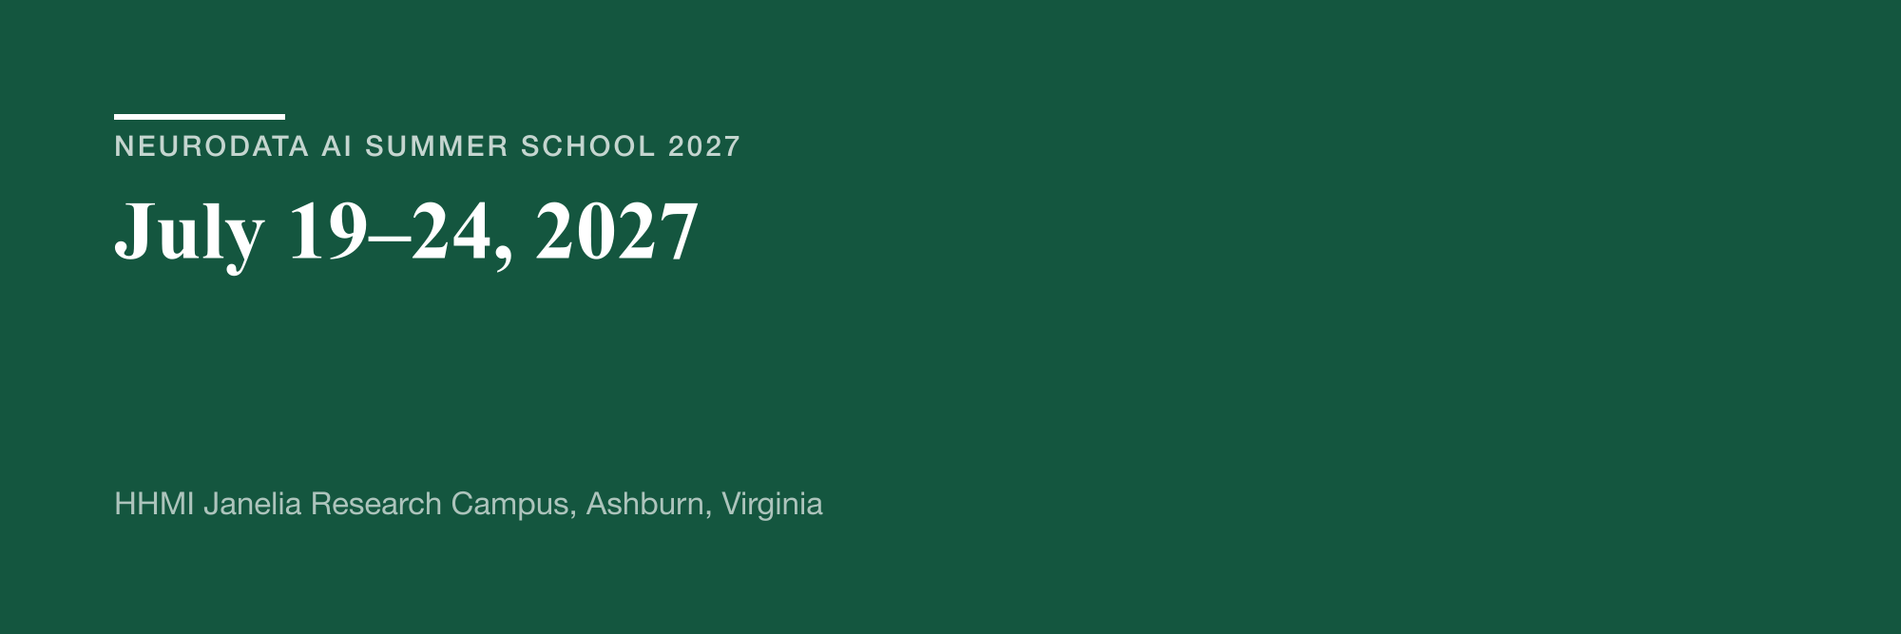
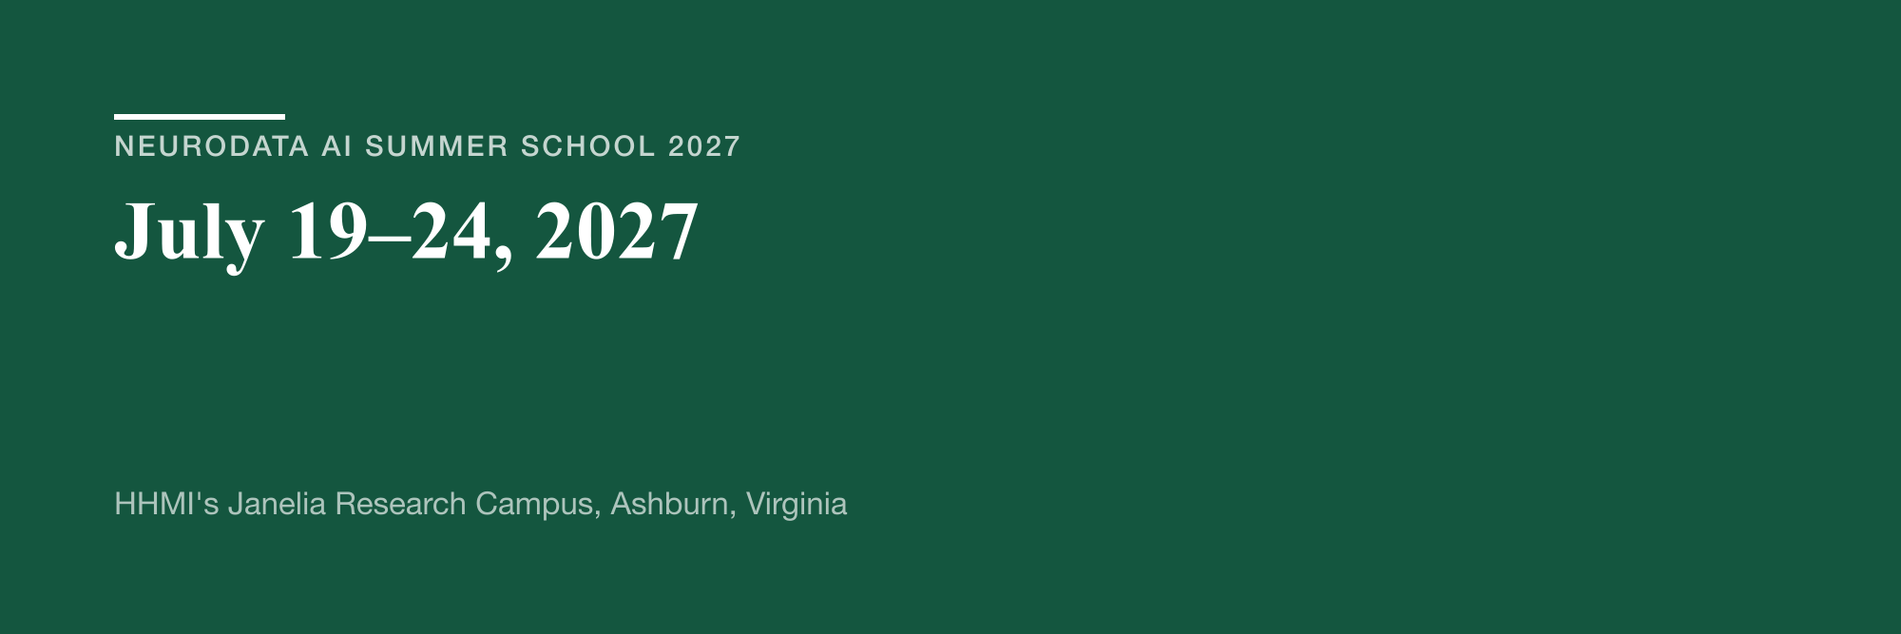
Use HHMI-Janelia and HHMI's Janelia Research Campus throughout
Ben's naming for the host: HHMI-Janelia in running text, HHMI's Janelia
Research Campus for the full name. Applied to all site copy, people
bios, photo captions, the sponsor entry, and the generated banner and
social-card images.

Claude-Session: https://claude.ai/code/session_01BL4RrS5NY3hpeFPe4TQEHF

Changed region(s): [[0.093, 0.7796, 0.465, 0.8096]]

diff --git a/src/consts.ts b/src/consts.ts
@@ -6,7 +6,7 @@ export const SITE = {
   defaultTitle: "NeuroData AI Summer School",
   titleTemplate: (t: string) => `${t} · NeuroData AI Summer School`,
   description:
-    "A one-week residential summer school at HHMI Janelia on reanalysis of open neurophysiology data and AI methods for neural data. Formerly NeuroDataReHack.",
+    "A one-week residential summer school at HHMI-Janelia on reanalysis of open neurophysiology data and AI methods for neural data. Formerly NeuroDataReHack.",
   ogImage: "/social-card.png",
   email: "ben.dichter@catalystneuro.com",
   github: "https://github.com/catalystneuro/neurodata-ai-website",

diff --git a/src/content/pages/program.md b/src/content/pages/program.md
@@ -20,7 +20,7 @@ The school is organized around four aims.
 
 ## Format
 
-The school runs once a year at HHMI Janelia Research Campus. Participants arrive on a Sunday evening for a welcome reception, and the program runs through the following Saturday, with sessions scheduled from nine in the morning to the early evening and the evenings free for continued project work and campus life. About 35 participants attend each year, with roughly eight faculty on site throughout, which keeps the ratio close enough for sustained one-on-one mentorship. Six to eight teams of four to six people is the usual shape of the project work.
+The school runs once a year at HHMI's Janelia Research Campus. Participants arrive on a Sunday evening for a welcome reception, and the program runs through the following Saturday, with sessions scheduled from nine in the morning to the early evening and the evenings free for continued project work and campus life. About 35 participants attend each year, with roughly eight faculty on site throughout, which keeps the ratio close enough for sustained one-on-one mentorship. Six to eight teams of four to six people is the usual shape of the project work.
 
 Days one and two establish the foundations: the NWB standard, the DANDI Archive, streaming access, the flagship datasets, and the classic analysis tools, most of them taught by the people who wrote them. Day three introduces the AI methods and hands the week over to project work. Days four through six are devoted to projects, with daily check-ins, a laboratory tour, a session on the responsible conduct of research with open data, and the final presentations. The exact agenda changes from year to year based on participant feedback and on what is new in the field; the [2026 schedule](/events/2026/) is a good guide to the shape of the week.
 
@@ -34,11 +34,11 @@ Accepted participants complete a short skills assessment covering Python, versio
 
 The school is supported by a five-year research education grant (R25NS149357) from the National Institute of Neurological Disorders and Stroke, awarded to CatalystNeuro in 2026. The award covers participant travel, faculty, and the production of recorded lectures and open educational materials, and it lets the curriculum accumulate across years instead of being rebuilt each spring.
 
-HHMI Janelia Research Campus has hosted and sponsored the program since 2024, providing housing, meals, and meeting space, which is what allows the school to be offered at no cost to participants. The Kavli Foundation supported the first four installments and offered Neurodata Discovery Awards to continue projects begun at the workshop. The first NeuroDataReHack was hosted by the Allen Institute in Seattle.
+HHMI's Janelia Research Campus has hosted and sponsored the program since 2024, providing housing, meals, and meeting space, which is what allows the school to be offered at no cost to participants. The Kavli Foundation supported the first four installments and offered Neurodata Discovery Awards to continue projects begun at the workshop. The first NeuroDataReHack was hosted by the Allen Institute in Seattle.
 
-## Janelia as a partner
+## HHMI-Janelia as a partner
 
-Janelia hosts the school, and its research is a large part of why the school is there. Much of the data on DANDI was recorded with tools that came out of Janelia: the GCaMP indicators from the GENIE project, the Neuropixels probes developed with the Allen Institute and UCL, and the light-sheet and two-photon microscopes built on campus. The same is true of the software the curriculum teaches. Kilosort, suite2p, Cellpose, Facemap, and Rastermap are developed there, and their authors teach at the school. Two of Janelia's named research areas, computational tool development and theoretical and computational neuroscience, cover the school's subject matter directly: machine learning that extracts understanding from large recordings, and models of neural computation built on that data. Janelia's own labs work at the scale where reanalysis pays off most, with whole-brain imaging in larval zebrafish and chronic recordings from freely moving mice producing datasets far richer than any one group can exhaust, and the campus describes its aim as sharing everything it does, tools, data, and methods included, with scientists everywhere. Hosting the school there means participants spend the week among the people who build the instruments, write the software, and collect the data they are learning to reuse, and the laboratory tour and guest lectures come from those same labs.
+HHMI-Janelia hosts the school, and its research is a large part of why the school is there. Much of the data on DANDI was recorded with tools that came out of HHMI-Janelia: the GCaMP indicators from the GENIE project, the Neuropixels probes developed with the Allen Institute and UCL, and the light-sheet and two-photon microscopes built on campus. The same is true of the software the curriculum teaches. Kilosort, suite2p, Cellpose, Facemap, and Rastermap are developed there, and their authors teach at the school. Two of HHMI-Janelia's named research areas, computational tool development and theoretical and computational neuroscience, cover the school's subject matter directly: machine learning that extracts understanding from large recordings, and models of neural computation built on that data. HHMI-Janelia's own labs work at the scale where reanalysis pays off most, with whole-brain imaging in larval zebrafish and chronic recordings from freely moving mice producing datasets far richer than any one group can exhaust, and the campus describes its aim as sharing everything it does, tools, data, and methods included, with scientists everywhere. Hosting the school there means participants spend the week among the people who build the instruments, write the software, and collect the data they are learning to reuse, and the laboratory tour and guest lectures come from those same labs.
 
 ## How the school fits alongside other programs
 

diff --git a/PRODUCT.md b/PRODUCT.md
@@ -14,7 +14,7 @@ Secondary, confirmed: past participants and self-learners who use the archive of
 
 ## Product Purpose
 
-The NeuroData AI Summer School is a one-week residential program at HHMI Janelia Research Campus that trains about 35 researchers a year to find, access, and reanalyze open neurophysiology data in the NWB format on the DANDI Archive, and to apply AI methods to it. It continues NeuroDataReHack, which ran from 2022 to 2026, and is funded for five years by an NINDS R25 research education grant (R25NS149357) awarded to CatalystNeuro in 2026. The website is the program's single home: it presents the upcoming school and the application process, holds the archive of every past installment (schedules, recordings, projects, reports, photos, survey results), publishes the faculty and advisory committee, links to tutorials that run in the cloud, and carries a blog of project highlights and outcomes. Success is a qualified visitor joining the mailing list or applying, and a self-learner finding and using a recording or tutorial.
+The NeuroData AI Summer School is a one-week residential program at HHMI's Janelia Research Campus that trains about 35 researchers a year to find, access, and reanalyze open neurophysiology data in the NWB format on the DANDI Archive, and to apply AI methods to it. It continues NeuroDataReHack, which ran from 2022 to 2026, and is funded for five years by an NINDS R25 research education grant (R25NS149357) awarded to CatalystNeuro in 2026. The website is the program's single home: it presents the upcoming school and the application process, holds the archive of every past installment (schedules, recordings, projects, reports, photos, survey results), publishes the faculty and advisory committee, links to tutorials that run in the cloud, and carries a blog of project highlights and outcomes. Success is a qualified visitor joining the mailing list or applying, and a self-learner finding and using a recording or tutorial.
 
 ## Positioning
 
@@ -22,7 +22,7 @@ The school is the only intensive, residential, project-based program devoted spe
 
 ## Operating Context
 
-Participants apply through an online form (CV, list of contributions, a 300-word benefit statement, a 300-word project idea), are scored by four to six reviewers on five dimensions, and receive preparatory NeuroHackademy modules six to eight weeks before arrival. The week runs Sunday evening to Saturday at Janelia with lodging and meals provided; mornings are lectures, afternoons are project work; teams present on the last day. Lectures are recorded and posted to YouTube; projects are documented in a shared document and later a report PDF; exit surveys are published in aggregate. Recurring artifacts: NWB files, Dandisets identified by six-digit IDs, Jupyter notebooks, DANDI Hub and Colab, GitHub repositories, YouTube playlists, the Janelia campus (classroom named Synapse, breakout room Spectrum, the pond, the pub).
+Participants apply through an online form (CV, list of contributions, a 300-word benefit statement, a 300-word project idea), are scored by four to six reviewers on five dimensions, and receive preparatory NeuroHackademy modules six to eight weeks before arrival. The week runs Sunday evening to Saturday at HHMI-Janelia with lodging and meals provided; mornings are lectures, afternoons are project work; teams present on the last day. Lectures are recorded and posted to YouTube; projects are documented in a shared document and later a report PDF; exit surveys are published in aggregate. Recurring artifacts: NWB files, Dandisets identified by six-digit IDs, Jupyter notebooks, DANDI Hub and Colab, GitHub repositories, YouTube playlists, the HHMI-Janelia campus (classroom named Synapse, breakout room Spectrum, the pond, the pub).
 
 ## Capabilities and Constraints
 
@@ -36,7 +36,7 @@ Name: NeuroData AI Summer School, with the lineage "formerly NeuroDataReHack" st
 
 ## Evidence on Hand
 
-Real: five years of event records with participant counts (28, 31, 20, 24, 24), 84 project titles with 20 full write-ups from 2026, 32 recorded lectures from 2025 and 2026 with YouTube IDs, report PDFs for every year, exit-survey numbers (2026 overall 4.86/5, recommend 4.95/5, n=22; 2024 unanimous 5/5), seven attributed testimonials, photos from Janelia in 2024 and 2026 and from Granada in 2023 (in `src/assets/photos/`), headshots for 16 of 28 people (`public/images/people/`), sponsor logos (NIH, HHMI Janelia, Kavli, Allen, LBNL, DANDI, NWB, CatalystNeuro). Absent, do not fabricate: recordings from 2022 to 2024, headshots for twelve people, alumni publication counts, a 2027 speaker-confirmed schedule, the application form, and the two advisory committee members (Dyer, Ghosh) who had not yet confirmed as of 2026-09-12; only confirmed members are listed.
+Real: five years of event records with participant counts (28, 31, 20, 24, 24), 84 project titles with 20 full write-ups from 2026, 32 recorded lectures from 2025 and 2026 with YouTube IDs, report PDFs for every year, exit-survey numbers (2026 overall 4.86/5, recommend 4.95/5, n=22; 2024 unanimous 5/5), seven attributed testimonials, photos from HHMI-Janelia in 2024 and 2026 and from Granada in 2023 (in `src/assets/photos/`), headshots for 16 of 28 people (`public/images/people/`), sponsor logos (NIH, HHMI-Janelia, Kavli, Allen, LBNL, DANDI, NWB, CatalystNeuro). Absent, do not fabricate: recordings from 2022 to 2024, headshots for twelve people, alumni publication counts, a 2027 speaker-confirmed schedule, the application form, and the two advisory committee members (Dyer, Ghosh) who had not yet confirmed as of 2026-09-12; only confirmed members are listed.
 
 ## Product Principles
 

diff --git a/src/content/blog/announcing-the-neurodata-ai-summer-school.md b/src/content/blog/announcing-the-neurodata-ai-summer-school.md
@@ -6,7 +6,7 @@ author: Ben Dichter
 tags: [announcement, funding]
 event: "2027"
 ---
-The National Institute of Neurological Disorders and Stroke has awarded CatalystNeuro a five-year R25 research education grant (R25NS149357) for the NeuroData AI Summer School. This is the program we have run as NeuroDataReHack every year since 2022, first at the Allen Institute in Seattle, then in Granada as a satellite of the IBRO World Congress, and since 2024 at HHMI Janelia Research Campus. For the first time it has stable, multi-year funding behind it, and this site is its new home.
+The National Institute of Neurological Disorders and Stroke has awarded CatalystNeuro a five-year R25 research education grant (R25NS149357) for the NeuroData AI Summer School. This is the program we have run as NeuroDataReHack every year since 2022, first at the Allen Institute in Seattle, then in Granada as a satellite of the IBRO World Congress, and since 2024 at HHMI's Janelia Research Campus. For the first time it has stable, multi-year funding behind it, and this site is its new home.
 
 ## What the program does
 
@@ -18,12 +18,12 @@ The reason the program matters goes past the week itself. Publishing a dataset i
 
 The award funds two things in particular. The first is a longer week with a substantially larger share of the curriculum devoted to AI methods for neural data: foundation models, coding with large language models and AI agents, dimensionality reduction and neural decoding, and transfer learning across datasets. The 2026 workshop already gave a section of the schedule to this material, and it landed harder than almost anything else we taught. When we asked what participants wanted more of, tutorials on using AI agents effectively came back more often than any other answer.
 
-The second is continuity. Until now the program ran one year at a time. Janelia's support has been generous and unwavering, but everything else was assembled annually, which meant the curriculum was largely rebuilt each spring and we could not commit to much beyond the coming summer. A five-year award lets teaching materials accumulate instead of resetting, lets us invite faculty further in advance and give applicants an answer earlier, and lets us follow what participants do after they leave, which is the measure that counts.
+The second is continuity. Until now the program ran one year at a time. HHMI-Janelia's support has been generous and unwavering, but everything else was assembled annually, which meant the curriculum was largely rebuilt each spring and we could not commit to much beyond the coming summer. A five-year award lets teaching materials accumulate instead of resetting, lets us invite faculty further in advance and give applicants an answer earlier, and lets us follow what participants do after they leave, which is the measure that counts.
 
 ## The 2027 school
 
-The first installment under the new name will be held at HHMI Janelia Research Campus in Ashburn, Virginia, from Monday, July 19 through Saturday, July 24, 2027, with participants arriving the evening of Sunday, July 18. The school is free to attend, including lodging on campus and meals, and travel is reimbursed up to $550 per participant, with additional support available on request. Applications are open until January 29, 2027; the [application page](/apply/) describes what the form asks for and how applications are reviewed.
+The first installment under the new name will be held at HHMI's Janelia Research Campus in Ashburn, Virginia, from Monday, July 19 through Saturday, July 24, 2027, with participants arriving the evening of Sunday, July 18. The school is free to attend, including lodging on campus and meals, and travel is reimbursed up to $550 per participant, with additional support available on request. Applications are open until January 29, 2027; the [application page](/apply/) describes what the form asks for and how applications are reviewed.
 
 ## Acknowledgments
 
-Thanks to HHMI Janelia for hosting and sponsoring the program, to the faculty from the NWB and DANDI teams, Allen Institute OpenScope, and the International Brain Laboratory, and to the reviewers and program staff at NINDS. Most of all, thank you to the participants of the past five installments. The evidence that this program works came from your project outcomes and your survey responses, and the application would not have been competitive without you.
+Thanks to HHMI-Janelia for hosting and sponsoring the program, to the faculty from the NWB and DANDI teams, Allen Institute OpenScope, and the International Brain Laboratory, and to the reviewers and program staff at NINDS. Most of all, thank you to the participants of the past five installments. The evidence that this program works came from your project outcomes and your survey responses, and the application would not have been competitive without you.

diff --git a/src/content/events/2024.md b/src/content/events/2024.md
@@ -9,7 +9,7 @@ startDate: 2024-07-08
 endDate: 2024-07-12
 arrivalDate: 2024-07-07
 venue:
-  name: HHMI Janelia Research Campus
+  name: HHMI's Janelia Research Campus
   city: Ashburn, Virginia
   country: United States
   url: https://www.janelia.org/
@@ -32,20 +32,20 @@ survey:
   notes: Every survey respondent rated the overall experience 5 out of 5. 100% reported making connections with peers, 95% learned the NWB standard and community analysis tools, and 90% learned to use DANDI Hub for cloud-based analysis. 15 of 20 rated the five-day duration as ideal.
 groupPhoto:
   src: 2024/group-photo.jpg
-  alt: Participants and instructors of NeuroDataReHack 2024 in front of the HHMI Janelia sign.
+  alt: Participants and instructors of NeuroDataReHack 2024 in front of the HHMI-Janelia sign.
 photos:
-  - { src: 2024/02-group-on-staircase.jpg, alt: Participants seated and standing along a glass-sided staircase in the Janelia atrium. }
+  - { src: 2024/02-group-on-staircase.jpg, alt: Participants seated and standing along a glass-sided staircase in the HHMI-Janelia atrium. }
   - { src: 2024/03-working-at-laptops.jpg, alt: Participants working at laptops at long tables in the lecture room. }
   - { src: 2024/04-classroom-working.jpg, alt: A wide view of participants working at laptops across several rows of tables. }
   - { src: 2024/05-team-collaborating.jpg, alt: Three participants working together at a laptop. }
   - { src: 2024/06-lecture-audience.jpg, alt: Participants listening to a talk with laptops open. }
   - { src: 2024/07-table-discussion.jpg, alt: An instructor discussing a project with participants around a table. }
-  - { src: 2024/08-rainbow-over-pond.jpg, alt: A rainbow over the pond and walking path at Janelia. }
-  - { src: 2024/09-nwb-latte-art.jpg, alt: A latte with the NWB logo in the foam, with the Janelia lawn behind. }
+  - { src: 2024/08-rainbow-over-pond.jpg, alt: A rainbow over the pond and walking path at HHMI-Janelia. }
+  - { src: 2024/09-nwb-latte-art.jpg, alt: A latte with the NWB logo in the foam, with the HHMI-Janelia lawn behind. }
 sponsors: [hhmi-janelia, kavli]
 ---
 ## About this year
 
-NeuroDataReHack 2024 was the first installment held at HHMI Janelia Research Campus, which has hosted the program every summer since. Twenty participants from 16 institutions completed 18 projects over five days, spanning surface-based parcellation of high-resolution imaging data, neural state space modeling of decision-making data, cross-species comparisons of hippocampal sequence dynamics, and early experiments with pre-training foundation models on NWB data.
+NeuroDataReHack 2024 was the first installment held at HHMI's Janelia Research Campus, which has hosted the program every summer since. Twenty participants from 16 institutions completed 18 projects over five days, spanning surface-based parcellation of high-resolution imaging data, neural state space modeling of decision-making data, cross-species comparisons of hippocampal sequence dynamics, and early experiments with pre-training foundation models on NWB data.
 
 Before the workshop, the virtual Open Neurodata Showcase let registrants meet the contributors behind the neurophysiology datasets on DANDI and explore virtual posters. Search API tutorials from this year are in the [program GitHub repository](https://github.com/NeurodataWithoutBorders/nwb_hackathons/tree/main/HCK21_2024_Janelia_NDRH/tutorials).

diff --git a/src/content/events/2026.md b/src/content/events/2026.md
@@ -9,7 +9,7 @@ startDate: 2026-07-12
 endDate: 2026-07-17
 arrivalDate: 2026-07-11
 venue:
-  name: HHMI Janelia Research Campus
+  name: HHMI's Janelia Research Campus
   city: Ashburn, Virginia
   country: United States
   url: https://www.janelia.org/
@@ -34,21 +34,21 @@ survey:
   notes: 17 of 22 respondents rated the six-day length as just right. 13 of 22 asked for more tutorials on using AI agents effectively.
 groupPhoto:
   src: 2026/group-photo.jpg
-  alt: Participants and instructors of NeuroDataReHack 2026 in front of the Janelia Research Campus.
+  alt: Participants and instructors of NeuroDataReHack 2026 in front of the HHMI's Janelia Research Campus.
 photos:
   - { src: 2026/w1-lecture-talk.jpg, alt: An instructor lecturing to participants in the Synapse classroom. }
   - { src: 2026/w2-room-working.jpg, alt: Participants working on projects at long tables. }
   - { src: 2026/w3-room-wide.jpg, alt: Wide view of the classroom during project time. }
   - { src: 2026/w4-talk-slide.jpg, alt: A speaker presenting slides. }
   - { src: 2026/w5-lounge.jpg, alt: Participants talking in the lounge. }
-  - { src: 2026/w6-dining.jpg, alt: Group dinner in the Janelia dining room. }
-  - { src: 2026/c1-janelia-sculpture.jpg, alt: Sculpture on the Janelia campus. }
-  - { src: 2026/c2-path.jpg, alt: A path across the Janelia campus. }
+  - { src: 2026/w6-dining.jpg, alt: Group dinner in the HHMI-Janelia dining room. }
+  - { src: 2026/c1-janelia-sculpture.jpg, alt: Sculpture on the HHMI-Janelia campus. }
+  - { src: 2026/c2-path.jpg, alt: A path across the HHMI-Janelia campus. }
   - { src: 2026/c3-birding-group.jpg, alt: An evening birding walk on campus. }
   - { src: 2026/c5-heron.jpg, alt: A heron at the campus lake. }
-  - { src: 2026/c6-sunset.jpg, alt: Sunset over the Janelia campus. }
+  - { src: 2026/c6-sunset.jpg, alt: Sunset over the HHMI-Janelia campus. }
   - { src: 2026/s1-big-screen.jpg, alt: Evening social on the big screen. }
-  - { src: 2026/s2-janelia-night.jpg, alt: The Janelia building at night. }
+  - { src: 2026/s2-janelia-night.jpg, alt: The HHMI-Janelia building at night. }
   - { src: 2026/s3-tournament-bracket.jpg, alt: The ping-pong tournament bracket. }
   - { src: 2026/s4-evening-patio.jpg, alt: Participants on the patio in the evening. }
   - { src: 2026/s5-pingpong.jpg, alt: A ping-pong match at the evening social. }
@@ -56,7 +56,7 @@ sponsors: [hhmi-janelia]
 ---
 ## About this year
 
-NeuroDataReHack 2026 was the fifth installment and the third at Janelia. Following feedback from 2025, where many participants found five days slightly too short, the workshop was extended to six days. The change was well received.
+NeuroDataReHack 2026 was the fifth installment and the third at HHMI-Janelia. Following feedback from 2025, where many participants found five days slightly too short, the workshop was extended to six days. The change was well received.
 
 The most significant programmatic change in 2026 was dedicated instruction on coding with large language models and AI agents: a lecture on developing with LLMs and two breakout sessions on getting started with AI agents and on agent skills. This material was among the best received content of the workshop and changed how participants worked on their projects. It also generated the clearest request for the future: more tutorials on using agentic AI effectively, delivered earlier in the week.
 

diff --git a/src/content/events/2027.md b/src/content/events/2027.md
@@ -10,7 +10,7 @@ endDate: 2027-07-24
 arrivalDate: 2027-07-18
 checkoutDate: 2027-07-25
 venue:
-  name: HHMI Janelia Research Campus
+  name: HHMI's Janelia Research Campus
   city: Ashburn, Virginia
   country: United States
   url: https://www.janelia.org/
@@ -51,13 +51,13 @@ Applicants should have basic programming experience in Python or MATLAB and expe
 
 ## Logistics
 
-Thanks to the sponsorship of HHMI Janelia Research Campus and the NINDS award, the school is free to participants.
+Thanks to the sponsorship of HHMI's Janelia Research Campus and the NINDS award, the school is free to participants.
 
 - There is no registration or application fee.
-- Participants are provided a private room at Janelia for the duration of the event, checking in the evening of Sunday, July 18 and checking out on Saturday, July 24 or the morning of Sunday, July 25.
-- Breakfast, lunch, dinner, and coffee breaks are provided. Janelia is adept at accommodating dietary restrictions; please indicate any on your application.
+- Participants are provided a private room at HHMI-Janelia for the duration of the event, checking in the evening of Sunday, July 18 and checking out on Saturday, July 24 or the morning of Sunday, July 25.
+- Breakfast, lunch, dinner, and coffee breaks are provided. HHMI-Janelia is adept at accommodating dietary restrictions; please indicate any on your application.
 - We reimburse up to $550 of travel costs per participant. A limited amount of additional support is available, used primarily for international participants who could not attend without it; the application form asks whether you would need it.
-- You are responsible for booking your own flight and transportation to Janelia.
+- You are responsible for booking your own flight and transportation to HHMI-Janelia.
 - You are responsible for determining visa and healthcare requirements for travel to the United States. Plan early, since this process can take several months. We are happy to provide a letter of invitation to support a visa application.
 
 ## What to bring

diff --git a/src/content/pages/apply.md b/src/content/pages/apply.md
@@ -23,7 +23,7 @@ Admission proceeds in order of average summary score, with limited adjustments t
 
 ## Cost and travel
 
-There is no registration or application fee. Lodging in a private room on the Janelia campus and all meals are provided. We reimburse up to $550 of travel costs per participant. A limited amount of additional support is available, used primarily for international participants who could not attend without it; the form asks whether you would need it. You book your own travel, and you are responsible for determining visa and healthcare requirements for travel to the United States; plan early, since visa processing can take several months, and ask us for a letter of invitation if you need one.
+There is no registration or application fee. Lodging in a private room on the HHMI-Janelia campus and all meals are provided. We reimburse up to $550 of travel costs per participant. A limited amount of additional support is available, used primarily for international participants who could not attend without it; the form asks whether you would need it. You book your own travel, and you are responsible for determining visa and healthcare requirements for travel to the United States; plan early, since visa processing can take several months, and ask us for a letter of invitation if you need one.
 
 ## Timeline
 

diff --git a/src/content/events/2025.md b/src/content/events/2025.md
@@ -9,7 +9,7 @@ startDate: 2025-07-14
 endDate: 2025-07-18
 arrivalDate: 2025-07-13
 venue:
-  name: HHMI Janelia Research Campus
+  name: HHMI's Janelia Research Campus
   city: Ashburn, Virginia
   country: United States
   url: https://www.janelia.org/
@@ -33,6 +33,6 @@ sponsors: [hhmi-janelia, kavli]
 ---
 ## About this year
 
-NeuroDataReHack 2025 brought 24 participants from 21 institutions in eight countries to Janelia for five days. This year had more collaborative projects than previous years, with several teams of four to six people working on larger, more ambitious questions and participants naturally adopting roles of teachers and students within their groups.
+NeuroDataReHack 2025 brought 24 participants from 21 institutions in eight countries to HHMI-Janelia for five days. This year had more collaborative projects than previous years, with several teams of four to six people working on larger, more ambitious questions and participants naturally adopting roles of teachers and students within their groups.
 
 Following the event, participants were invited to apply for a Kavli Foundation Neurodata Discovery Award, which provides funding to continue data reanalysis projects begun at the workshop.

diff --git a/src/content/people/carsen-stringer.md b/src/content/people/carsen-stringer.md
@@ -1,9 +1,9 @@
 ---
 name: Carsen Stringer
-affiliation: HHMI Janelia Research Campus
+affiliation: HHMI's Janelia Research Campus
 photo: /images/people/carsen-stringer.jpg
 roles: [faculty, instructor]
 tools: [suite2p, rastermap, Facemap, Cellpose]
 order: 16
 ---
-Carsen Stringer is a group leader at Janelia and created suite2p, rastermap, Facemap, and Cellpose, machine learning tools for calcium imaging processing, dimensionality reduction, and behavior analysis.
+Carsen Stringer is a group leader at HHMI-Janelia and created suite2p, rastermap, Facemap, and Cellpose, machine learning tools for calcium imaging processing, dimensionality reduction, and behavior analysis.

diff --git a/src/content/people/misha-ahrens.md b/src/content/people/misha-ahrens.md
@@ -1,7 +1,7 @@
 ---
 name: Misha Ahrens
-affiliation: HHMI Janelia Research Campus
+affiliation: HHMI's Janelia Research Campus
 photo: /images/people/misha-ahrens.jpg
 roles: [guest]
 ---
-Misha Ahrens is a group leader at Janelia. His laboratory records whole-brain activity in larval zebrafish, and several of its datasets are shared on DANDI. He has presented dataset showcases at the 2025 and 2026 installments.
+Misha Ahrens is a group leader at HHMI-Janelia. His laboratory records whole-brain activity in larval zebrafish, and several of its datasets are shared on DANDI. He has presented dataset showcases at the 2025 and 2026 installments.

diff --git a/src/content/people/jakob-voigts.md b/src/content/people/jakob-voigts.md
@@ -1,8 +1,8 @@
 ---
 name: Jakob Voigts
-affiliation: HHMI Janelia Research Campus
+affiliation: HHMI's Janelia Research Campus
 photo: /images/people/jakob-voigts.jpg
 roles: [faculty, instructor]
 order: 20
 ---
-Jakob Voigts is a group leader at Janelia whose laboratory studies cortical circuits in behaving mice. He hosts the laboratory tour that gives participants a look at how the data they reanalyze is collected.
+Jakob Voigts is a group leader at HHMI-Janelia whose laboratory studies cortical circuits in behaving mice. He hosts the laboratory tour that gives participants a look at how the data they reanalyze is collected.
